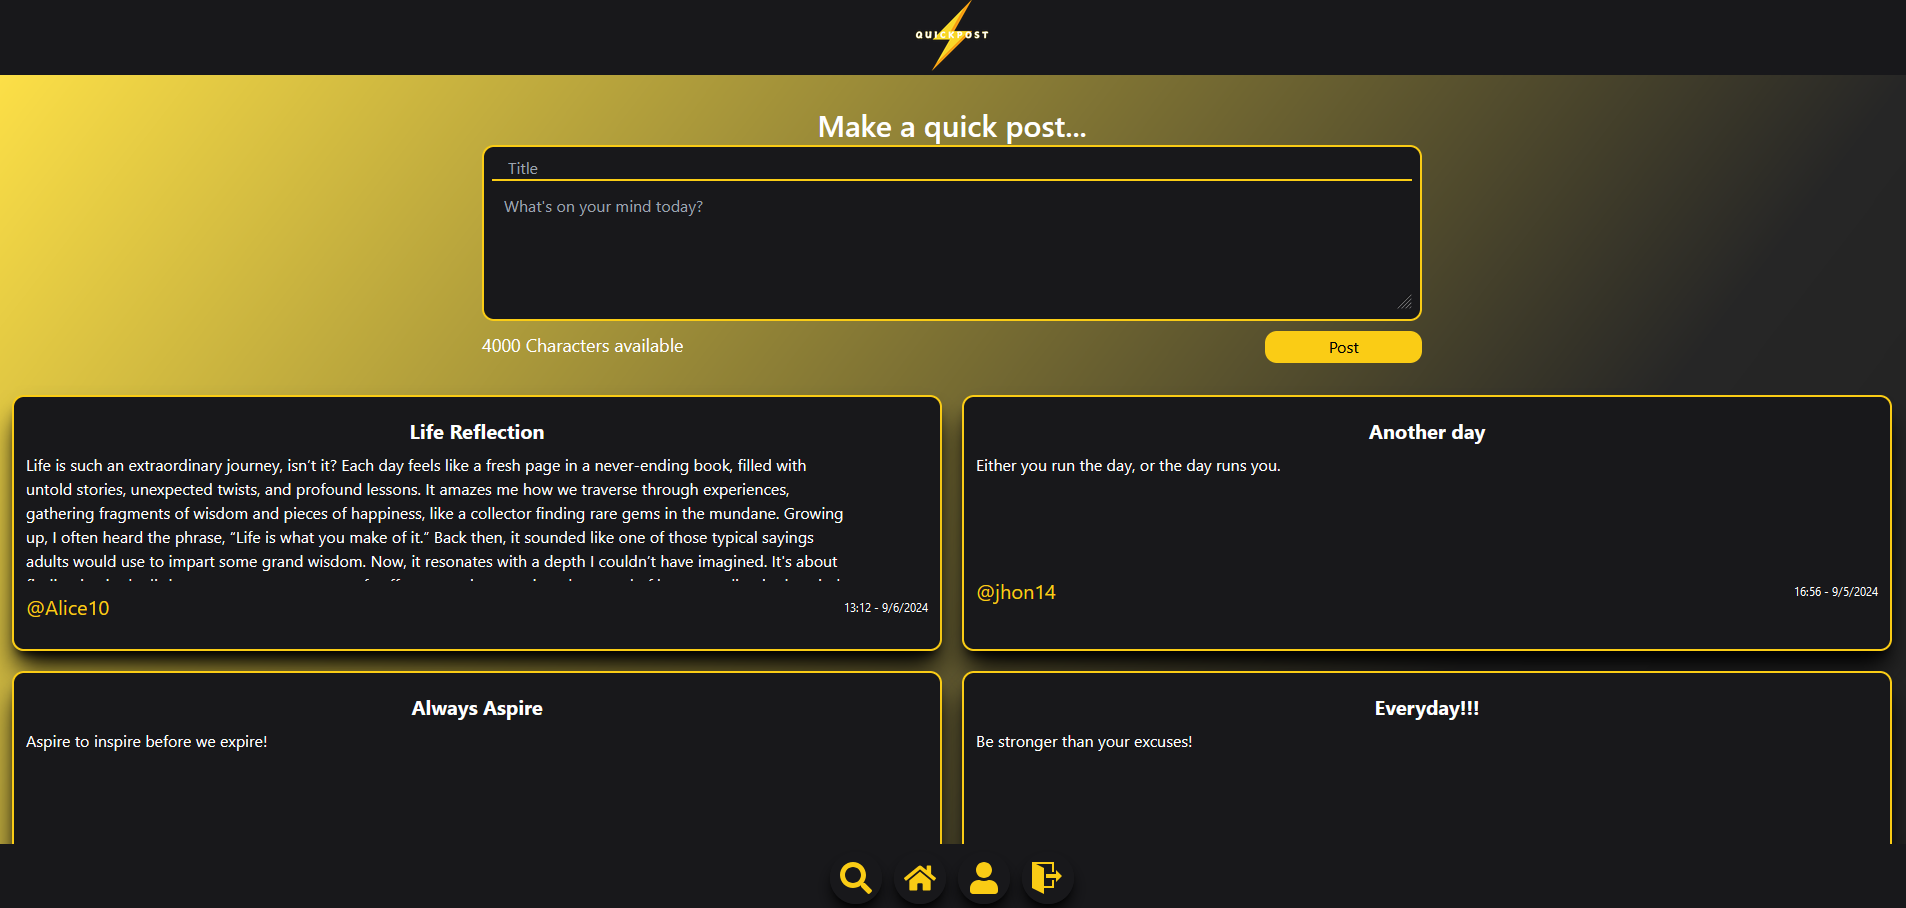
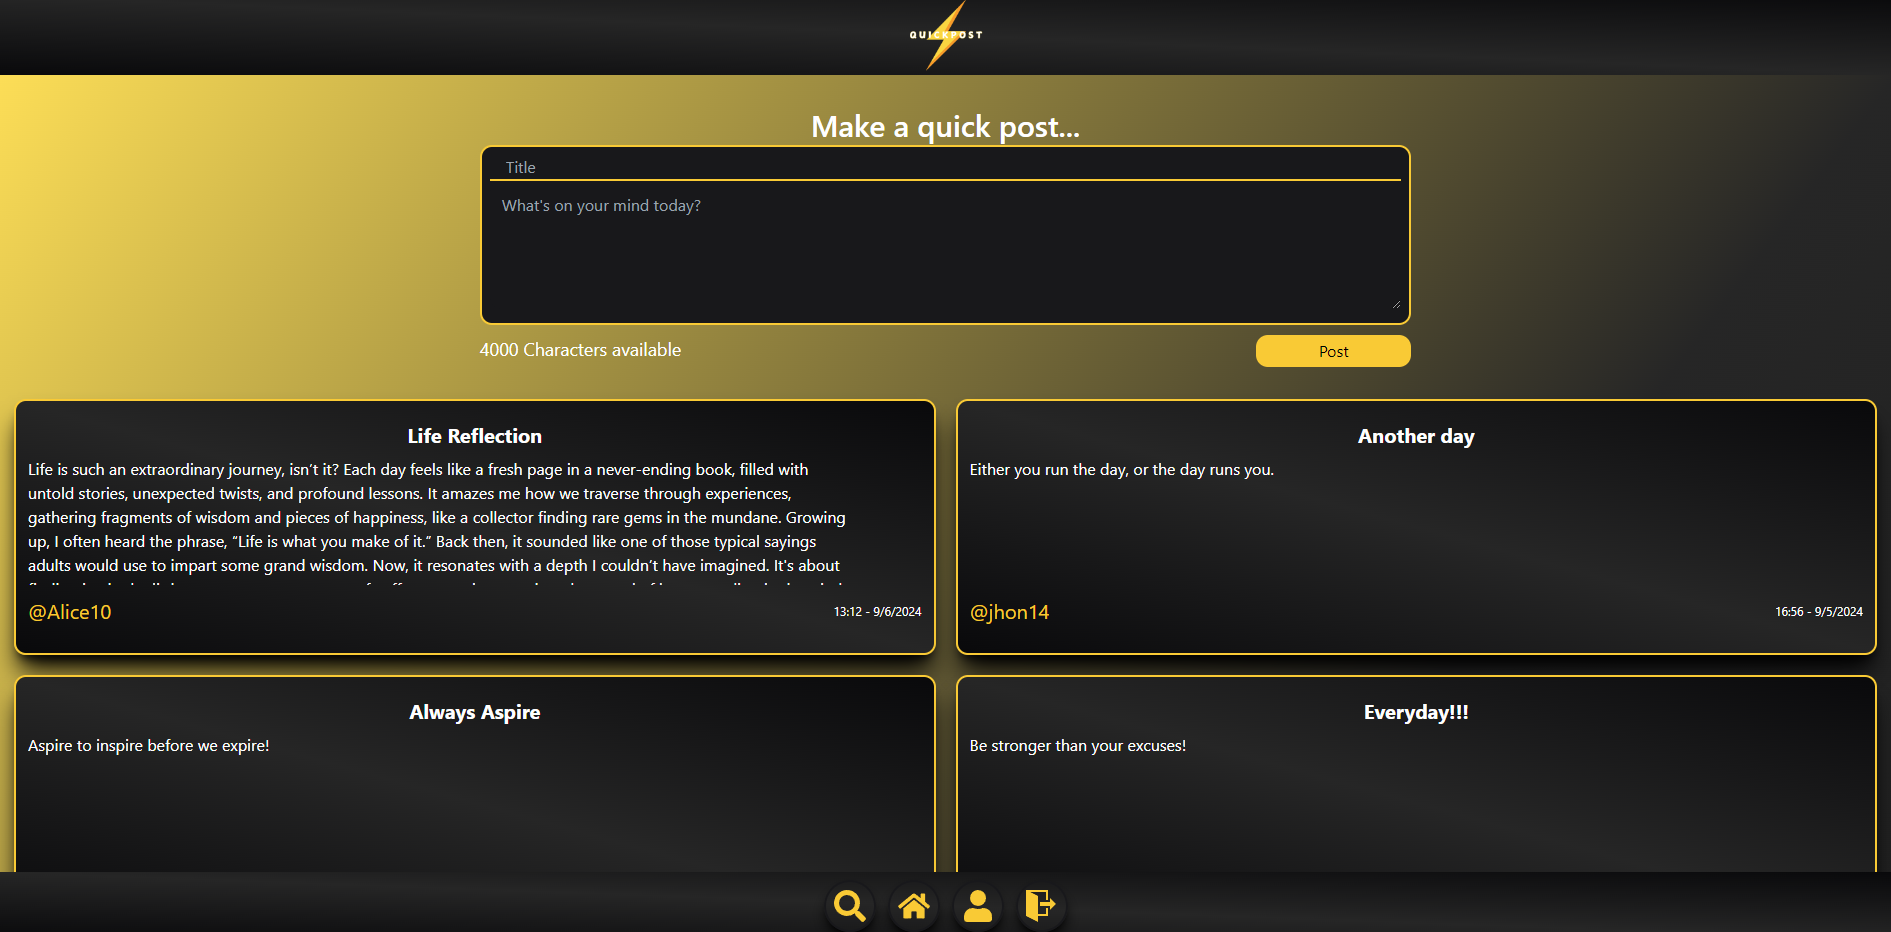
pages design remake

diff --git a/src/components/profileInfo/index.jsx b/src/components/profileInfo/index.jsx
@@ -8,53 +8,56 @@ import Post from "../Post";
 export default function ProfileInfo() {
 
     const [user, setUser] = useState('');
-    const[post, setPost] = useState([]);
+    const [post, setPost] = useState([]);
 
     useEffect(() => {
         async function getUserData() {
-            const userData = await fetchProfile();         
-            setUser(userData);            
+            const userData = await fetchProfile();
+            setUser(userData);
         }
         getUserData();
     }, [])
 
     //print all the posts of the logged in user
-       
-     useEffect(() =>{
-    async function fetchPosts(userId){
-        const posts = await userPosts(userId);
-        const sortedPosts = posts.reverse();
-        setPost(sortedPosts);
-    }
-     if(user._id){
-        fetchPosts(user._id)
-     }
+
+    useEffect(() => {
+        async function fetchPosts(userId) {
+            const posts = await userPosts(userId);
+            const sortedPosts = posts.reverse();
+            setPost(sortedPosts);
+        }
+        if (user._id) {
+            fetchPosts(user._id)
+        }
 
     }, [user._id]);
 
     //Display profile info like name, bio and picture.
     return (
-        <div className="flex flex-col  bg-gradient-to-br from-yellow-300 via-neutral-800 to-neutral-900  min-h-screen h-auto items-center pt-5">
-            <div className="size-56 sm:size-72" >
-                <img src="./quick.jpeg" loading="lazy" className=" rounded-full border-4 border-yellow-400" />
-            </div>
-            <h2 className="text-white font-extrabold text-4xl">
+        <section className="flex flex-col pb-5 bg-gradient-to-br from-yellow-300 via-neutral-800 to-neutral-900  min-h-screen h-auto items-center">
+            <div className="flex flex-col items-center p-5 h-full w-full border-2 border-black bg-[url('/assets/images/cloudbg.jpg')]  ">
+                <div className="size-56 sm:size-72" >
+                    <img src="./quick.jpeg" loading="lazy" className=" rounded-full border-4 border-yellow-400" />
+                </div>
+            <h2 className="text-white font-extrabold text-5xl">
                 @{user.username}
             </h2>
             <p className="text-white font-semibold">
                 {user.email}
             </p>
-            <section className="mt-10 size-5/6 md:size-3/6">
-                <h3 className="text-white text-center mb-3 font-bold text-2xl sm:text-4xl">
-                    Your QuickPosts
-                </h3>
+            </div>
+            <section className="mt-10 size-5/6 md:size-3/6">               
+                    {post.length == 0 ? <h3 className="text-white text-center mb-3 font-bold text-2xl sm:text-4xl">You haven't posted anything yet 😒</h3> :
+                    <h3 className="text-white text-center mb-3 font-bold text-2xl sm:text-4xl">Your QuickPosts</h3> }
+
                 <div className="flex flex-col gap-5 ">
                     {post.map((userPost) => (
-                        <Post key={userPost.title} data={userPost}/>
+                        <Post key={userPost.title} data={userPost} />
                     ))}
+                    
                 </div>
             </section>
 
-        </div>
+        </section>
     )
 }

diff --git a/src/components/Post/index.jsx b/src/components/Post/index.jsx
@@ -1,27 +1,27 @@
 // import { AiOutlineLike, AiOutlineDislike, AiFillLike, AiFillDislike } from "react-icons/ai";
 // import { BiLaugh, BiSolidLaugh } from "react-icons/bi";
 
-export default function Post({data}) {
-    
- 
+export default function Post({ data }) {
+
+
     return (
-        <div className="flex flex-col w-full items-left min-h-56 sm:h-64 lg:w-full px-3 py-5 gap-2 bg-zinc-900 text-white border-solid border-2 rounded-xl border-yellow-400  shadow-xl shadow-black">
+            <div className="flex flex-col w-full items-left min-h-56 sm:h-64 lg:w-full px-3 py-5 gap-2 bg-gradient-to-bl from-zinc-950 via-neutral-800 to-zinc-950 text-white border-solid border-2 rounded-xl border-yellow-400  shadow-xl shadow-black">
                 <h3 className="font-bold text-base sm:text-base md:text-xl self-center">
                     {data.title}
                 </h3>
                 <div className="w-11/12 h-32 overflow-y-scroll no-scrollbar ">
                     <p>
-                    {data.message}
+                        {data.message}
                     </p>
                 </div>
                 <div className="flex items-center justify-between mt-1 ">
-                {/* <span className="flex text-2xl text-yellow-400"> <AiOutlineLike /> <BiLaugh /> <AiOutlineDislike /> </span> future reactions //future reactions */}
-                <span className="text-xl text-yellow-400">
-                    @{data.username}    
-                </span>
-                <p className="text-xs">{data.time} - {data.date}</p>
-                </div>            
-        </div>
-        
+                    {/* <span className="flex text-2xl text-yellow-400"> <AiOutlineLike /> <BiLaugh /> <AiOutlineDislike /> </span> future reactions //future reactions */}
+                    <span className="text-xl text-yellow-400">
+                        @{data.username}
+                    </span>
+                    <p className="text-xs">{data.time} - {data.date}</p>
+                </div>
+            </div>   
+
     )
 }

diff --git a/src/components/PostInput/index.jsx b/src/components/PostInput/index.jsx
@@ -74,7 +74,7 @@ export default function PostInput() {
     }
 
     return (
-        <form className="flex flex-col items-center gap-y-0.5 pt-3 w-8/12 lg:w-6/12">
+        <form className="flex flex-col  items-center gap-y-0.5 pt-3 w-8/12 lg:w-6/12">
             <p className="text-white text-3xl font-semibold">Make a quick post...</p>
             <div className={`p-2 bg-zinc-900 border-2  rounded-xl w-full ${textError ? "border-red-500" : "border-yellow-400"}`}>
                 <input onChange={handleTitleChange} id='titleInput' value={title} placeholder="Title" required maxLength={30} className={` text-white border-b-2 bg-zinc-900 w-full px-4 focus:outline-none ${titleError ? "border-red-500" : "border-yellow-400"} `} />

diff --git a/src/Pages/Register/index.jsx b/src/Pages/Register/index.jsx
@@ -8,7 +8,7 @@ export default function Register() {
 
     return (
 
-        <div className="flex flex-col items-center sm:justify-center py-10 h-full m-h-screen bg-zinc-800 ">
+        <div className="flex flex-col items-center sm:justify-center py-10 h-full m-h-screen bg-[url('/assets/images/thunder.gif')] bg-cover bg-no-repeat ">
             <div className="flex flex-col mt-5 items-center">
                 <h1 className="font-bold text-white text-md sm:text-xl md:text-3xl lg:text-4xl animate-bounce">Whatever you want to say🤭 </h1>
                 <h2 className="font-bold text-white text-sm sm:text-lg md:text-2xl lg:text-4xl animate-bounce">Whenever you want to say🤩 </h2>

diff --git a/src/components/Menu/index.jsx b/src/components/Menu/index.jsx
@@ -15,7 +15,7 @@ export default function Menu() {
 
 
     return (
-        <menu className="flex justify-center sticky inset-0 w-full  py-2 bg-zinc-900 text-white gap-3">
+        <menu className="flex justify-center sticky inset-0 w-full  py-2 bg-gradient-to-bl from-zinc-950 via-neutral-800 to-zinc-950 text-white gap-3">
             <li className="flex flex-col items-center border-2 border-zinc-900 p-2 rounded-full hover:bg-zinc-700 shadow-lg shadow-black hover:animate-pulse">
                 <PageLink to={"/QuickPost/search"}>
                     <FaSearch className="size-8"/>   

diff --git a/src/Pages/Login/index.jsx b/src/Pages/Login/index.jsx
@@ -8,7 +8,7 @@ export default function Login() {
     localStorage.removeItem('authToken');
 
     return (
-        <div className="flex flex-col items-center justify-center h-screen  bg-zinc-800">
+        <div className="flex flex-col bg-[url('/assets/images/thunder.gif')] bg-cover bg-no-repeat items-center justify-center h-screen  bg-zinc-800">
             <h1 className="font-bold text-white text-4xl ">Say it to the world!</h1>
             <h2 className="font-bold text-white text-4xl animate-pulse">🌍</h2>
             <Logo />

diff --git a/src/components/Header/index.jsx b/src/components/Header/index.jsx
@@ -4,8 +4,9 @@ import HeaderLogo from "../HeaderLogo";
 
 
 export default function Header() {
+    
     return (
-        <header className=" flex justify-center bg-zinc-900 h-20 items-center">
+        <header className=" flex justify-center bg-gradient-to-bl from-zinc-950 via-neutral-800 to-zinc-950 h-20 items-center">
                 <Link to="/QuickPost/home"><HeaderLogo/></Link>            
         </header>
     )
